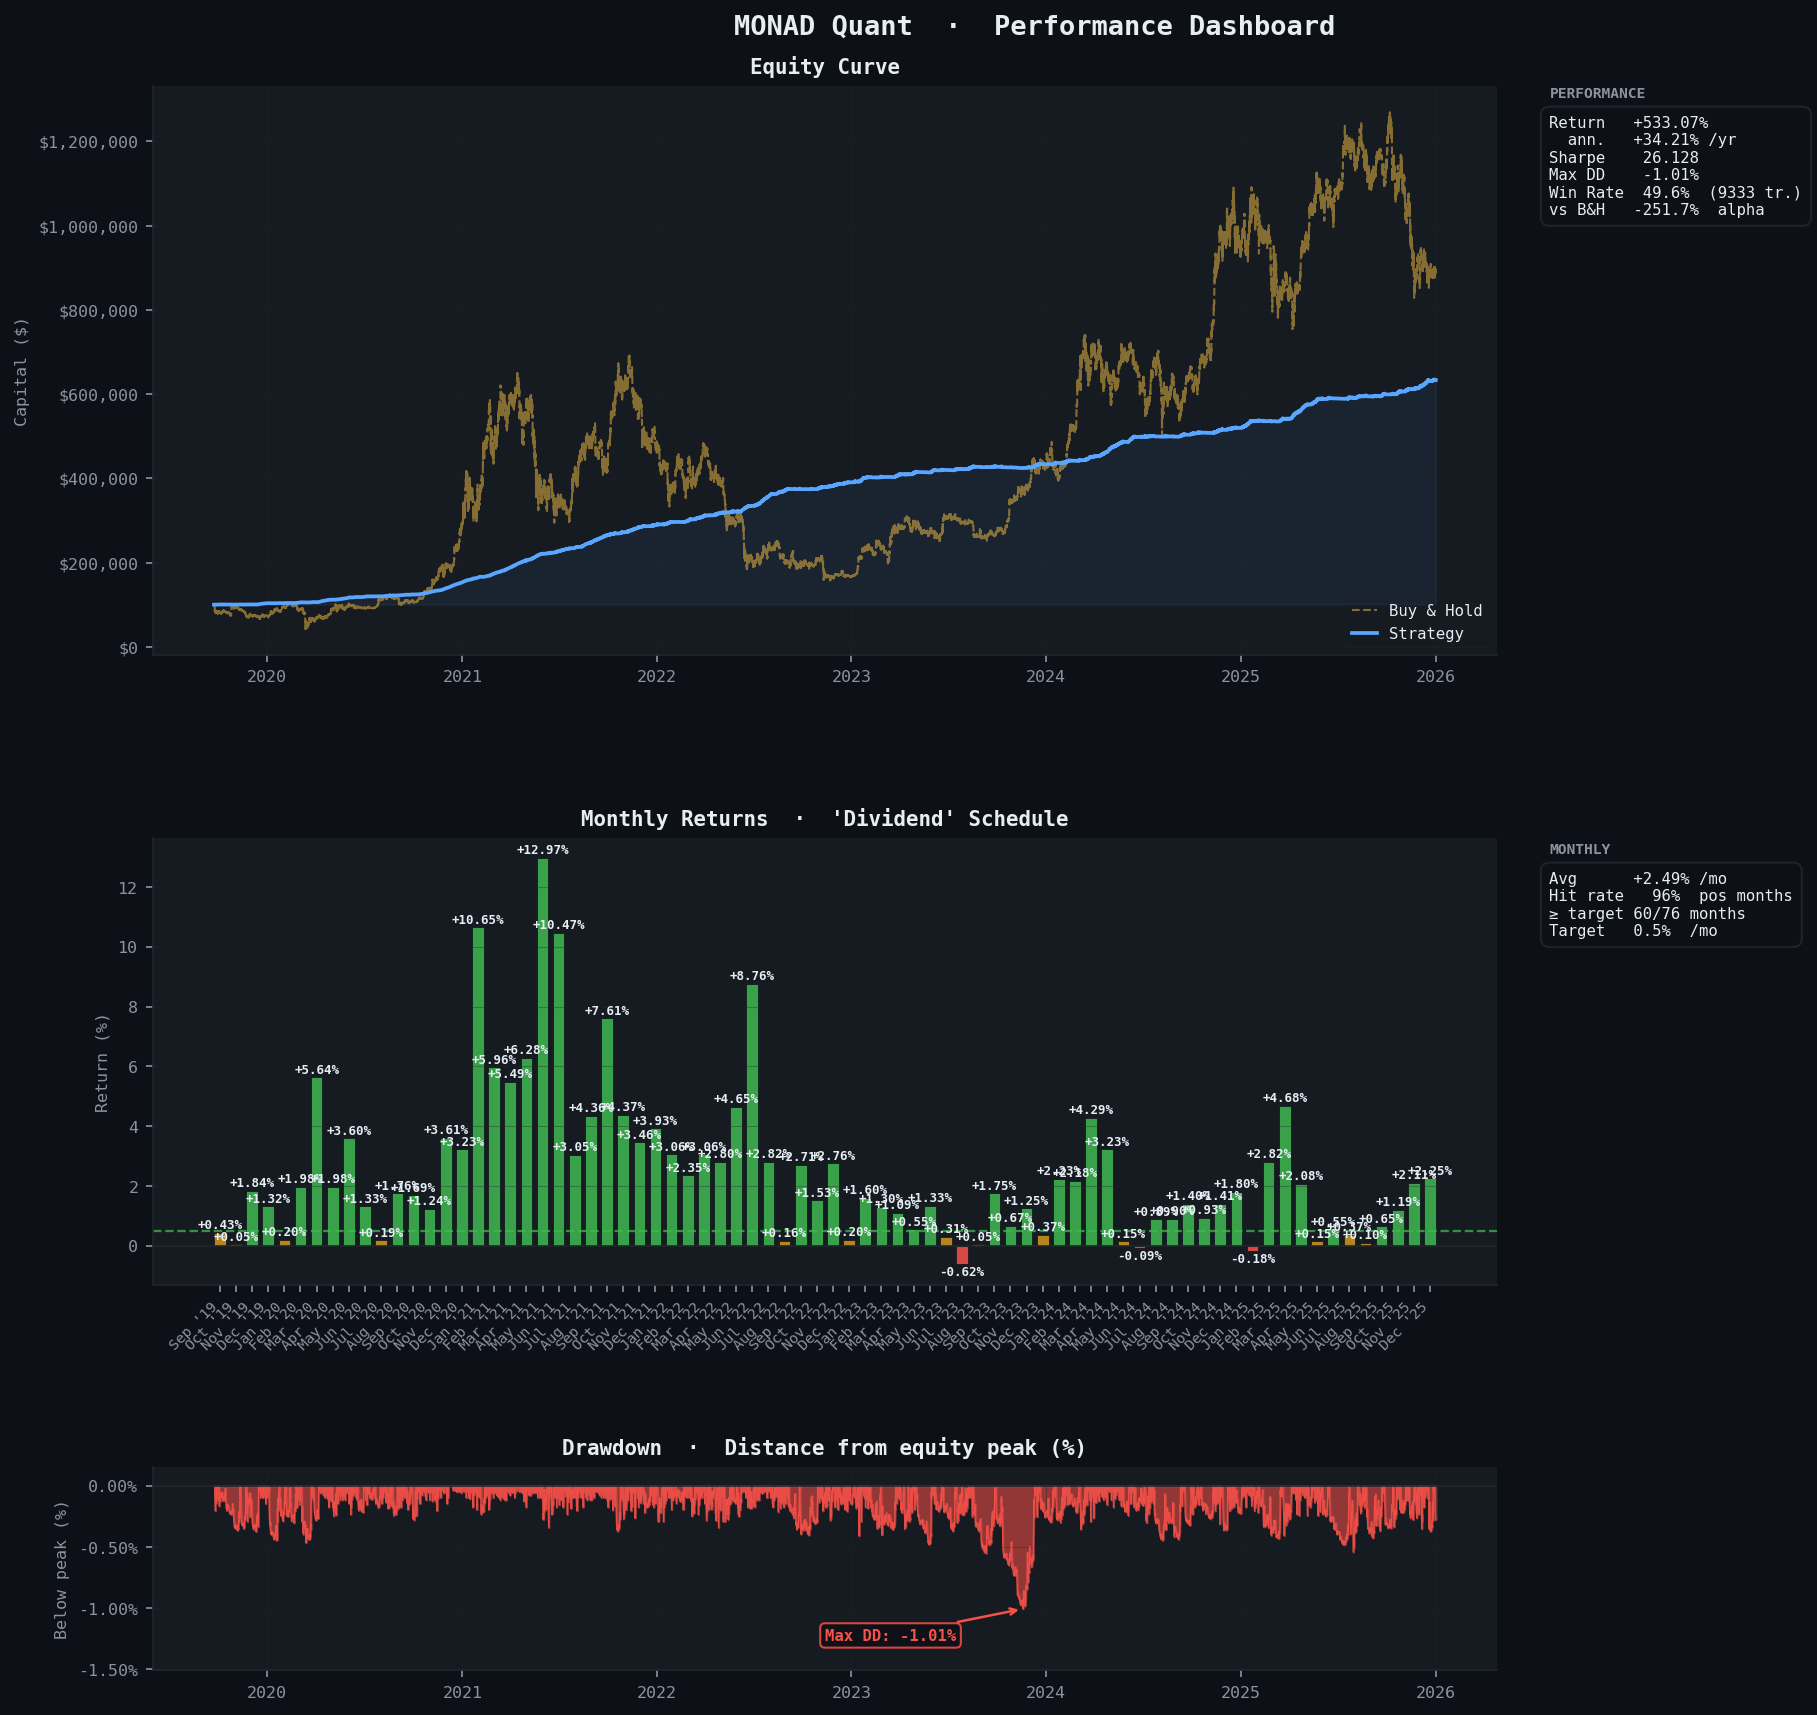
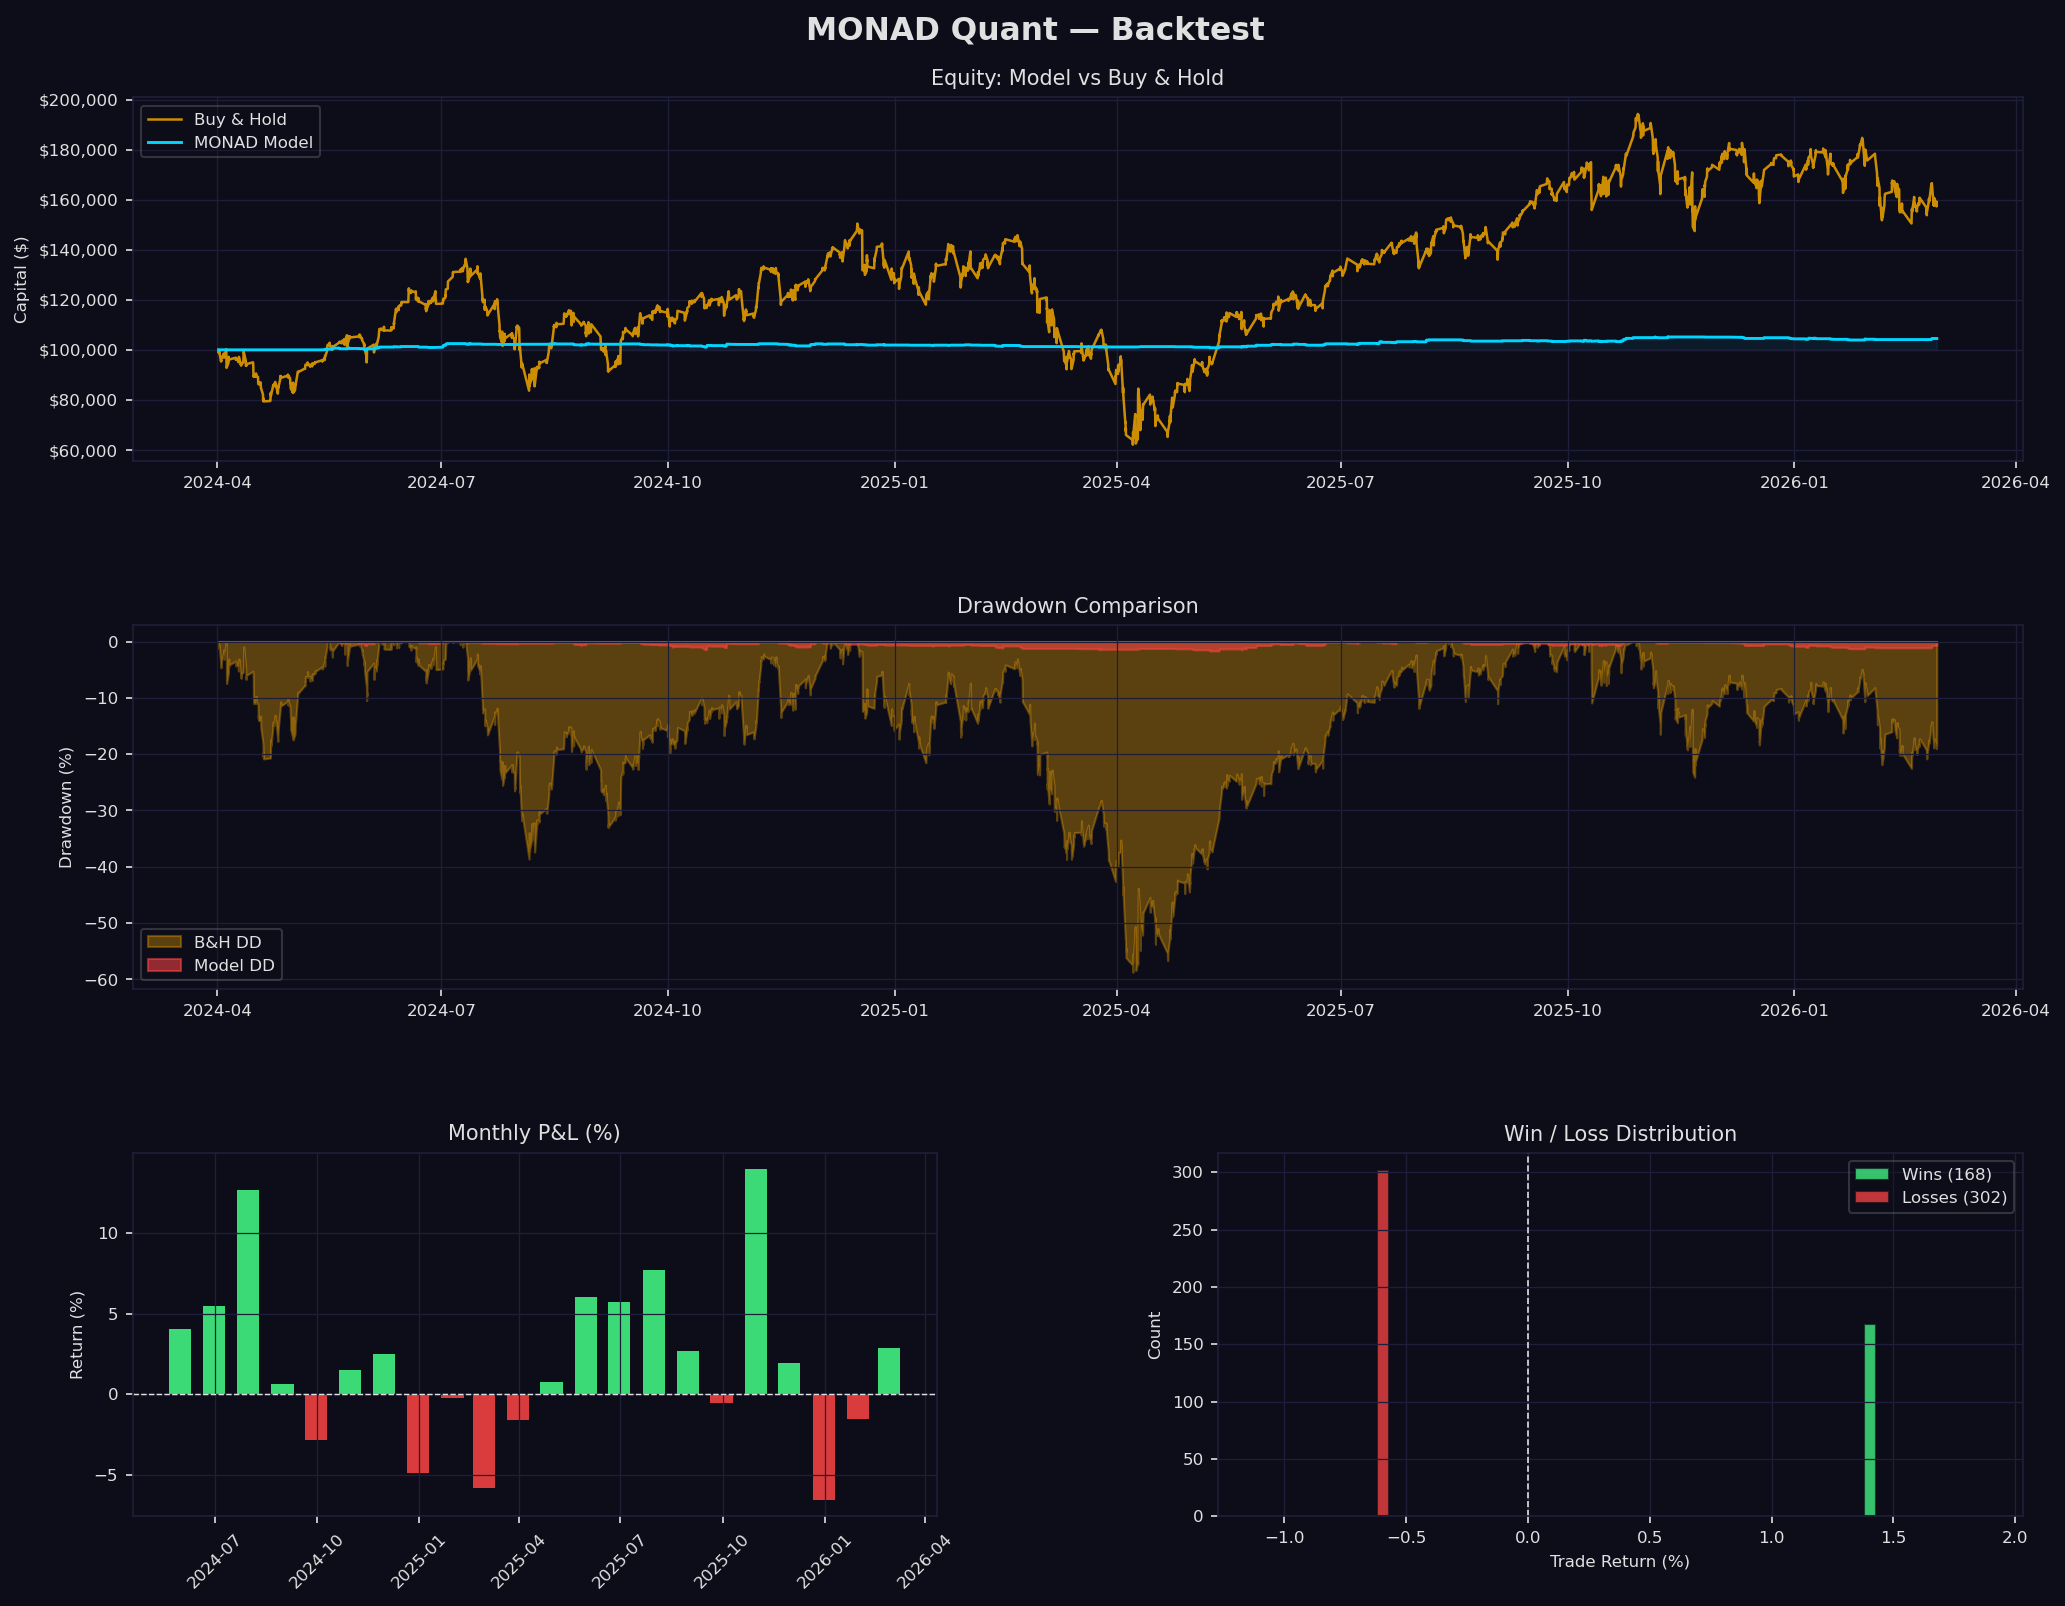
qqq is up to date with 'origin/codex/uirefine'.
ui refinement
q
q
q!
qa!

diff --git a/live/templates/dashboard.html b/live/templates/dashboard.html
@@ -192,6 +192,9 @@
             <tr><td class="k" style="padding:2px 0;">Market value</td><td style="padding:2px 0;">${{ position.market_value|commafy }}</td></tr>
             {% endif %}
             <tr><td colspan="2" style="padding:6px 0 2px;border-top:1px solid var(--line);"></td></tr>
+            {% if position_gauge %}
+            <tr><td colspan="2" style="padding:4px 0 8px;">{{ position_gauge }}</td></tr>
+            {% endif %}
             <tr>
               <td class="k" style="padding:2px 0;">Target</td>
               <td style="padding:2px 0;">

diff --git a/live/dashboard.py b/live/dashboard.py
@@ -7,6 +7,7 @@ from pathlib import Path
 from zoneinfo import ZoneInfo
 
 import plotly.graph_objects as go
+from plotly.subplots import make_subplots
 from fastapi import FastAPI, Request
 from fastapi.responses import HTMLResponse
 from fastapi.templating import Jinja2Templates
@@ -110,6 +111,22 @@ def _next_scheduled_run() -> str | None:
     return None
 
 
+def _resolve_asset_config(symbol: str | None = None) -> tuple[str | None, dict | None]:
+    candidates = [config.DEFAULT_ASSET]
+    if symbol:
+        candidates.extend([f"{symbol}_HOURLY", symbol])
+
+    seen: set[str] = set()
+    for candidate in candidates:
+        if not candidate or candidate in seen:
+            continue
+        seen.add(candidate)
+        cfg = config.ASSETS.get(candidate)
+        if cfg is not None:
+            return candidate, cfg
+    return None, None
+
+
 def _build_returns_chart(trades: list[dict]) -> str:
     rows = list(reversed(trades[-30:]))
     if len(rows) < 3:
@@ -167,22 +184,190 @@ def _build_exit_type_chart(exit_counts: dict[str, int], needs_plotlyjs: bool = F
     return fig.to_html(full_html=False, include_plotlyjs="cdn" if needs_plotlyjs else False)
 
 
-def _build_signal_chart(signal_history: list[dict], needs_plotlyjs: bool = False) -> str:
+def _build_signal_chart(
+    signal_history: list[dict],
+    *,
+    rsi_oversold: float | None = None,
+    rsi_overbought: float | None = None,
+    needs_plotlyjs: bool = False,
+) -> str:
     rows = list(reversed(signal_history))
     if not rows:
         return ""
+
     x = [r.get("bar_time") or r.get("updated_at") for r in rows]
-    y = [r.get("signal") for r in rows]
-    fig = go.Figure(data=[go.Scatter(x=x, y=y, mode="lines+markers", line_color="#4aa3ff")])
+    close = [r.get("bar_close") for r in rows]
+    rsi = [r.get("rsi") for r in rows]
+    signals = [r.get("signal") for r in rows]
+
+    fig = make_subplots(
+        rows=2,
+        cols=1,
+        shared_xaxes=True,
+        vertical_spacing=0.06,
+        row_heights=[0.72, 0.28],
+    )
+    fig.add_trace(
+        go.Scatter(
+            x=x,
+            y=close,
+            mode="lines",
+            name="Close",
+            line=dict(color="#4aa3ff", width=2),
+            hovertemplate="%{x}<br>Close $%{y:.2f}<extra></extra>",
+        ),
+        row=1,
+        col=1,
+    )
+
+    long_x, long_y, short_x, short_y = [], [], [], []
+    for idx, sig in enumerate(signals):
+        price = close[idx]
+        if price is None or sig is None:
+            continue
+        if sig > 0:
+            long_x.append(x[idx])
+            long_y.append(price)
+        elif sig < 0:
+            short_x.append(x[idx])
+            short_y.append(price)
+
+    if long_x:
+        fig.add_trace(
+            go.Scatter(
+                x=long_x,
+                y=long_y,
+                mode="markers",
+                name="LONG",
+                marker=dict(symbol="triangle-up", color="#2ecc71", size=12),
+                hovertemplate="%{x}<br>LONG @ $%{y:.2f}<extra></extra>",
+            ),
+            row=1,
+            col=1,
+        )
+    if short_x:
+        fig.add_trace(
+            go.Scatter(
+                x=short_x,
+                y=short_y,
+                mode="markers",
+                name="SHORT",
+                marker=dict(symbol="triangle-down", color="#e74c3c", size=12),
+                hovertemplate="%{x}<br>SHORT @ $%{y:.2f}<extra></extra>",
+            ),
+            row=1,
+            col=1,
+        )
+
+    fig.add_trace(
+        go.Scatter(
+            x=x,
+            y=rsi,
+            mode="lines",
+            name="RSI",
+            line=dict(color="#bb86fc", width=2),
+            hovertemplate="%{x}<br>RSI %{y:.2f}<extra></extra>",
+        ),
+        row=2,
+        col=1,
+    )
+
+    if rsi_oversold is not None:
+        fig.add_hline(
+            y=rsi_oversold,
+            line_dash="dash",
+            line_color="rgba(46, 204, 113, 0.55)",
+            row=2,
+            col=1,
+        )
+    if rsi_overbought is not None:
+        fig.add_hline(
+            y=rsi_overbought,
+            line_dash="dash",
+            line_color="rgba(231, 76, 60, 0.55)",
+            row=2,
+            col=1,
+        )
+
     fig.update_layout(
-        title="Signal Snapshot History",
+        title="Price Action & Signals",
         paper_bgcolor="#121a2f",
         plot_bgcolor="#121a2f",
         font_color="#e8ecf6",
         margin=dict(l=30, r=20, t=40, b=30),
-        height=240,
-        xaxis_title="Timestamp",
-        yaxis_title="Signal",
+        height=450,
+        showlegend=False,
+        hovermode="x unified",
+    )
+    fig.update_xaxes(showgrid=False)
+    fig.update_yaxes(
+        title_text="Price",
+        gridcolor="rgba(152, 162, 179, 0.12)",
+        zeroline=False,
+        row=1,
+        col=1,
+    )
+    fig.update_yaxes(
+        title_text="RSI",
+        range=[0, 100],
+        gridcolor="rgba(152, 162, 179, 0.12)",
+        zeroline=False,
+        row=2,
+        col=1,
+    )
+    return fig.to_html(full_html=False, include_plotlyjs="cdn" if needs_plotlyjs else False)
+
+
+def _build_position_gauge(position: dict | None, needs_plotlyjs: bool = False) -> str:
+    if not position:
+        return ""
+
+    mark = position.get("mark_price")
+    entry = position.get("entry_price")
+    target = position.get("target_price")
+    stop = position.get("stop_price")
+    if None in (mark, entry, target, stop):
+        return ""
+
+    mark = float(mark)
+    entry = float(entry)
+    target = float(target)
+    stop = float(stop)
+    lower = min(stop, entry, target, mark)
+    upper = max(stop, entry, target, mark)
+    if lower == upper:
+        pad = abs(lower) * 0.01 if lower else 1.0
+        lower -= pad
+        upper += pad
+
+    fig = go.Figure(
+        go.Indicator(
+            mode="number+gauge",
+            value=mark,
+            number={"prefix": "$", "font": {"size": 24, "color": "#e8ecf6"}},
+            domain={"x": [0, 1], "y": [0, 1]},
+            gauge={
+                "shape": "bullet",
+                "axis": {"range": [lower, upper], "tickcolor": "#e8ecf6"},
+                "threshold": {
+                    "line": {"color": "#e8ecf6", "width": 3},
+                    "thickness": 0.75,
+                    "value": entry,
+                },
+                "steps": [
+                    {"range": [stop, entry], "color": "rgba(231, 76, 60, 0.25)"},
+                    {"range": [entry, target], "color": "rgba(46, 204, 113, 0.25)"},
+                ],
+                "bar": {"color": "#4aa3ff", "thickness": 0.32},
+            },
+        )
+    )
+    fig.update_layout(
+        paper_bgcolor="#121a2f",
+        plot_bgcolor="#121a2f",
+        font_color="#e8ecf6",
+        margin=dict(t=18, b=18, l=36, r=20),
+        height=120,
     )
     return fig.to_html(full_html=False, include_plotlyjs="cdn" if needs_plotlyjs else False)
 
@@ -197,6 +382,7 @@ def dashboard(request: Request) -> HTMLResponse:
     status = state.get_monitor_status()
     signal = state.get_signal_snapshot()
     signal_history = state.get_signal_history(limit=20)
+    signal_chart_history = state.get_signal_history(limit=60)
     position = state.get_position()
     position_dict = position.__dict__ if position else None
     all_trades = state.get_recent_trades(limit=50)
@@ -265,18 +451,11 @@ def dashboard(request: Request) -> HTMLResponse:
 
     position_view = None
     if position_dict:
-        # Try the active mode's asset key first, then fall back to symbol_HOURLY / symbol
-        asset_key = config.DEFAULT_ASSET
         symbol = position_dict["symbol"]
-        if asset_key not in config.ASSETS:
-            for candidate in [f"{symbol}_HOURLY", symbol]:
-                if candidate in config.ASSETS:
-                    asset_key = candidate
-                    break
+        _asset_key, cfg = _resolve_asset_config(symbol)
         target_pct = None
         stop_pct = None
-        if asset_key in config.ASSETS:
-            cfg = config.ASSETS[asset_key]
+        if cfg is not None:
             target_pct = cfg.get("target_gain_pct")
             stop_pct = cfg.get("stop_loss_pct")
 
@@ -322,8 +501,22 @@ def dashboard(request: Request) -> HTMLResponse:
     returns_chart = Markup(_build_returns_chart(trades))
     exit_chart_needs_js = not returns_chart
     exit_chart = Markup(_build_exit_type_chart(exit_counts, needs_plotlyjs=exit_chart_needs_js))
+    _, signal_asset_cfg = _resolve_asset_config(status.get("live_symbol") if status else None)
+    rsi_oversold = signal_asset_cfg.get("rsi_oversold") if signal_asset_cfg else None
+    rsi_overbought = signal_asset_cfg.get("rsi_overbought") if signal_asset_cfg else None
     signal_chart_needs_js = not returns_chart and not exit_chart
-    signal_chart = Markup(_build_signal_chart(signal_history, needs_plotlyjs=signal_chart_needs_js))
+    signal_chart = Markup(
+        _build_signal_chart(
+            signal_chart_history,
+            rsi_oversold=rsi_oversold,
+            rsi_overbought=rsi_overbought,
+            needs_plotlyjs=signal_chart_needs_js,
+        )
+    )
+    gauge_needs_js = not returns_chart and not exit_chart and not signal_chart
+    position_gauge = Markup(
+        _build_position_gauge(position_view, needs_plotlyjs=gauge_needs_js)
+    )
 
     return TEMPLATES.TemplateResponse(
         request=request,
@@ -344,6 +537,7 @@ def dashboard(request: Request) -> HTMLResponse:
             "returns_chart": returns_chart,
             "exit_chart": exit_chart,
             "signal_chart": signal_chart,
+            "position_gauge": position_gauge,
             "cycle_age_min": cycle_age_min,
             "cycle_text": cycle_text,
             "cycle_color": cycle_color,

diff --git a/config.py b/config.py
@@ -100,7 +100,7 @@ MAX_POSITION_PCT_STRONG_BULL = 0.30   # 30% cap lets Kelly×1.5 deploy to 27% (w
 
 # Soft 50-MA correction gate (0 = disabled; 0.05 = block if >5% below 50-MA)
 STRONG_BULL_REQUIRE_50MA  = False
-STRONG_BULL_SOFT_50MA_PCT = 0.0       # Set to 0.05 to filter extended corrections (June/Aug 2024)
+STRONG_BULL_SOFT_50MA_PCT = 0.02       # Set to 0.05 to filter extended corrections (June/Aug 2024)
 
 # ADX sizing
 ADX_PERIOD        = 14
@@ -219,16 +219,16 @@ BACKTEST_END_QQQ_HOURLY   = "2026-03-01"
 # ═══════════════════════════════════════════════════════════════════════════
 
 RSI_PERIOD_TQQQ_HOURLY         = 7
-RSI_OVERSOLD_TQQQ_HOURLY       = 70    # Realistic sweep optimal (1.9:1 R:R)
+RSI_OVERSOLD_TQQQ_HOURLY       = 80    # Realistic sweep optimal (1.9:1 R:R)
 RSI_OVERBOUGHT_TQQQ_HOURLY     = 62
 MACD_FAST_TQQQ_HOURLY          = 6     # DEAD LEVER (confirmed: same as QQQ/BTC hourly)
 MACD_SLOW_TQQQ_HOURLY          = 13
 MACD_SIGNAL_TQQQ_HOURLY        = 4
 VWAP_WINDOW_TQQQ_HOURLY        = 10
-VWAP_ZSCORE_THRESH_TQQQ_HOURLY = 0.5   # Sweep optimal (dead lever — 0.3-0.6 nearly identical)
+VWAP_ZSCORE_THRESH_TQQQ_HOURLY = 0.4   # Sweep optimal (dead lever — 0.3-0.6 nearly identical)
 BB_WINDOW_TQQQ_HOURLY          = 14
-TARGET_GAIN_PCT_TQQQ_HOURLY    = 0.0280 # 2.80% target — realistic sweep optimal; 1.9:1 R:R
-STOP_LOSS_PCT_TQQQ_HOURLY      = 0.0150 # 1.50% stop — Sharpe 3.7, DD -3.85%, WR 55.9%, +1.77%/mo
+TARGET_GAIN_PCT_TQQQ_HOURLY    = 0.0140 # 2.80% target — realistic sweep optimal; 1.9:1 R:R
+STOP_LOSS_PCT_TQQQ_HOURLY      = 0.0060 # 1.50% stop — Sharpe 3.7, DD -3.85%, WR 55.9%, +1.77%/mo
 # Previous configs (pre-realistic-backtest fixes — inflated by same-bar ambiguity bias):
 # TARGET_GAIN_PCT_TQQQ_HOURLY  = 0.0072  # 0.72% target, 1.8:1 R:R (optimistic mode)
 # TARGET_GAIN_PCT_TQQQ_HOURLY  = 0.0042  # 0.42% target, 5.6:1 R:R (optimistic mode)
